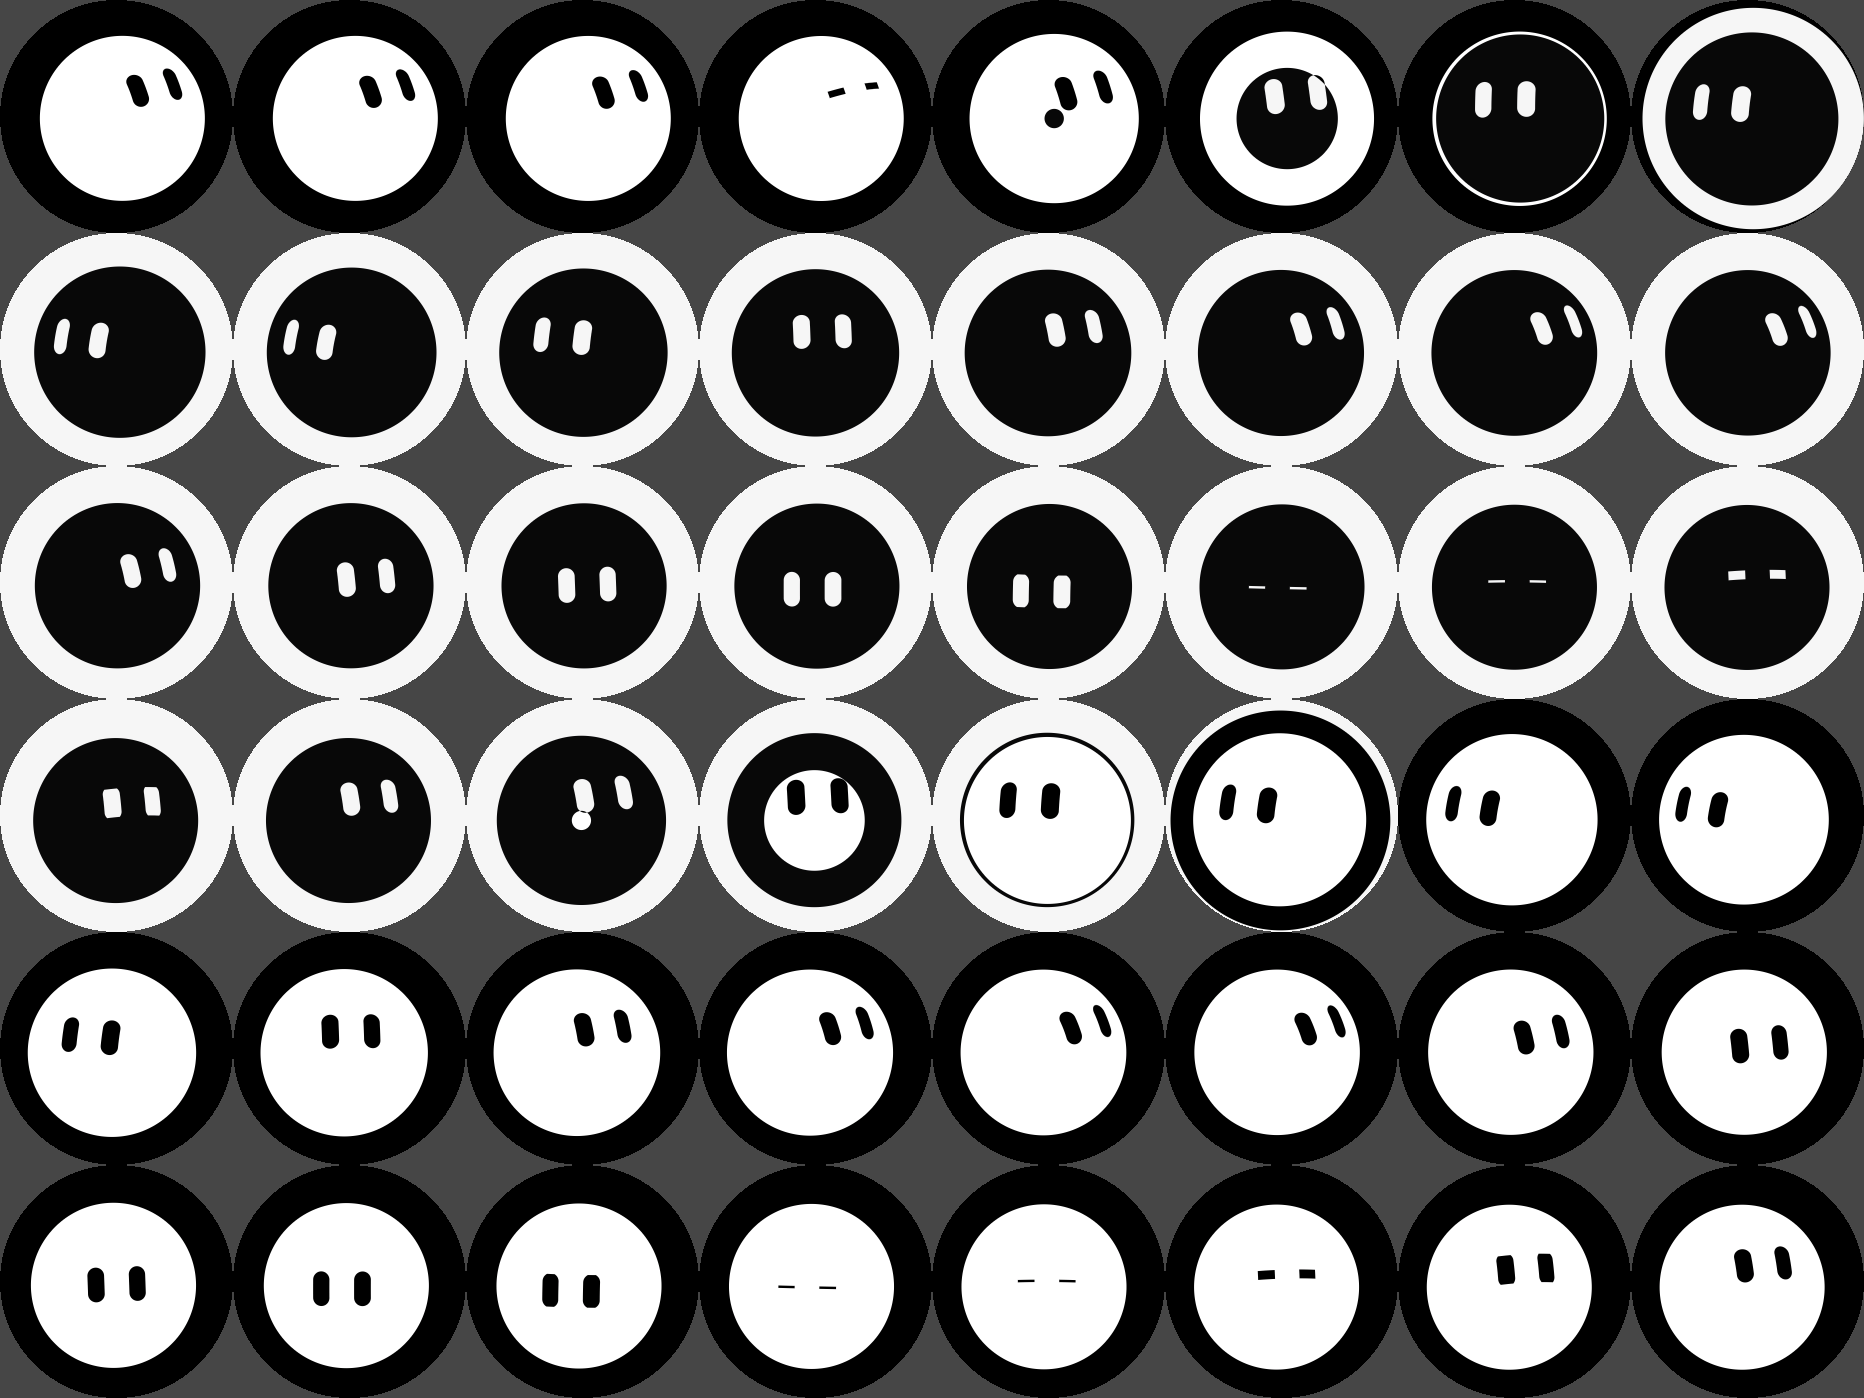
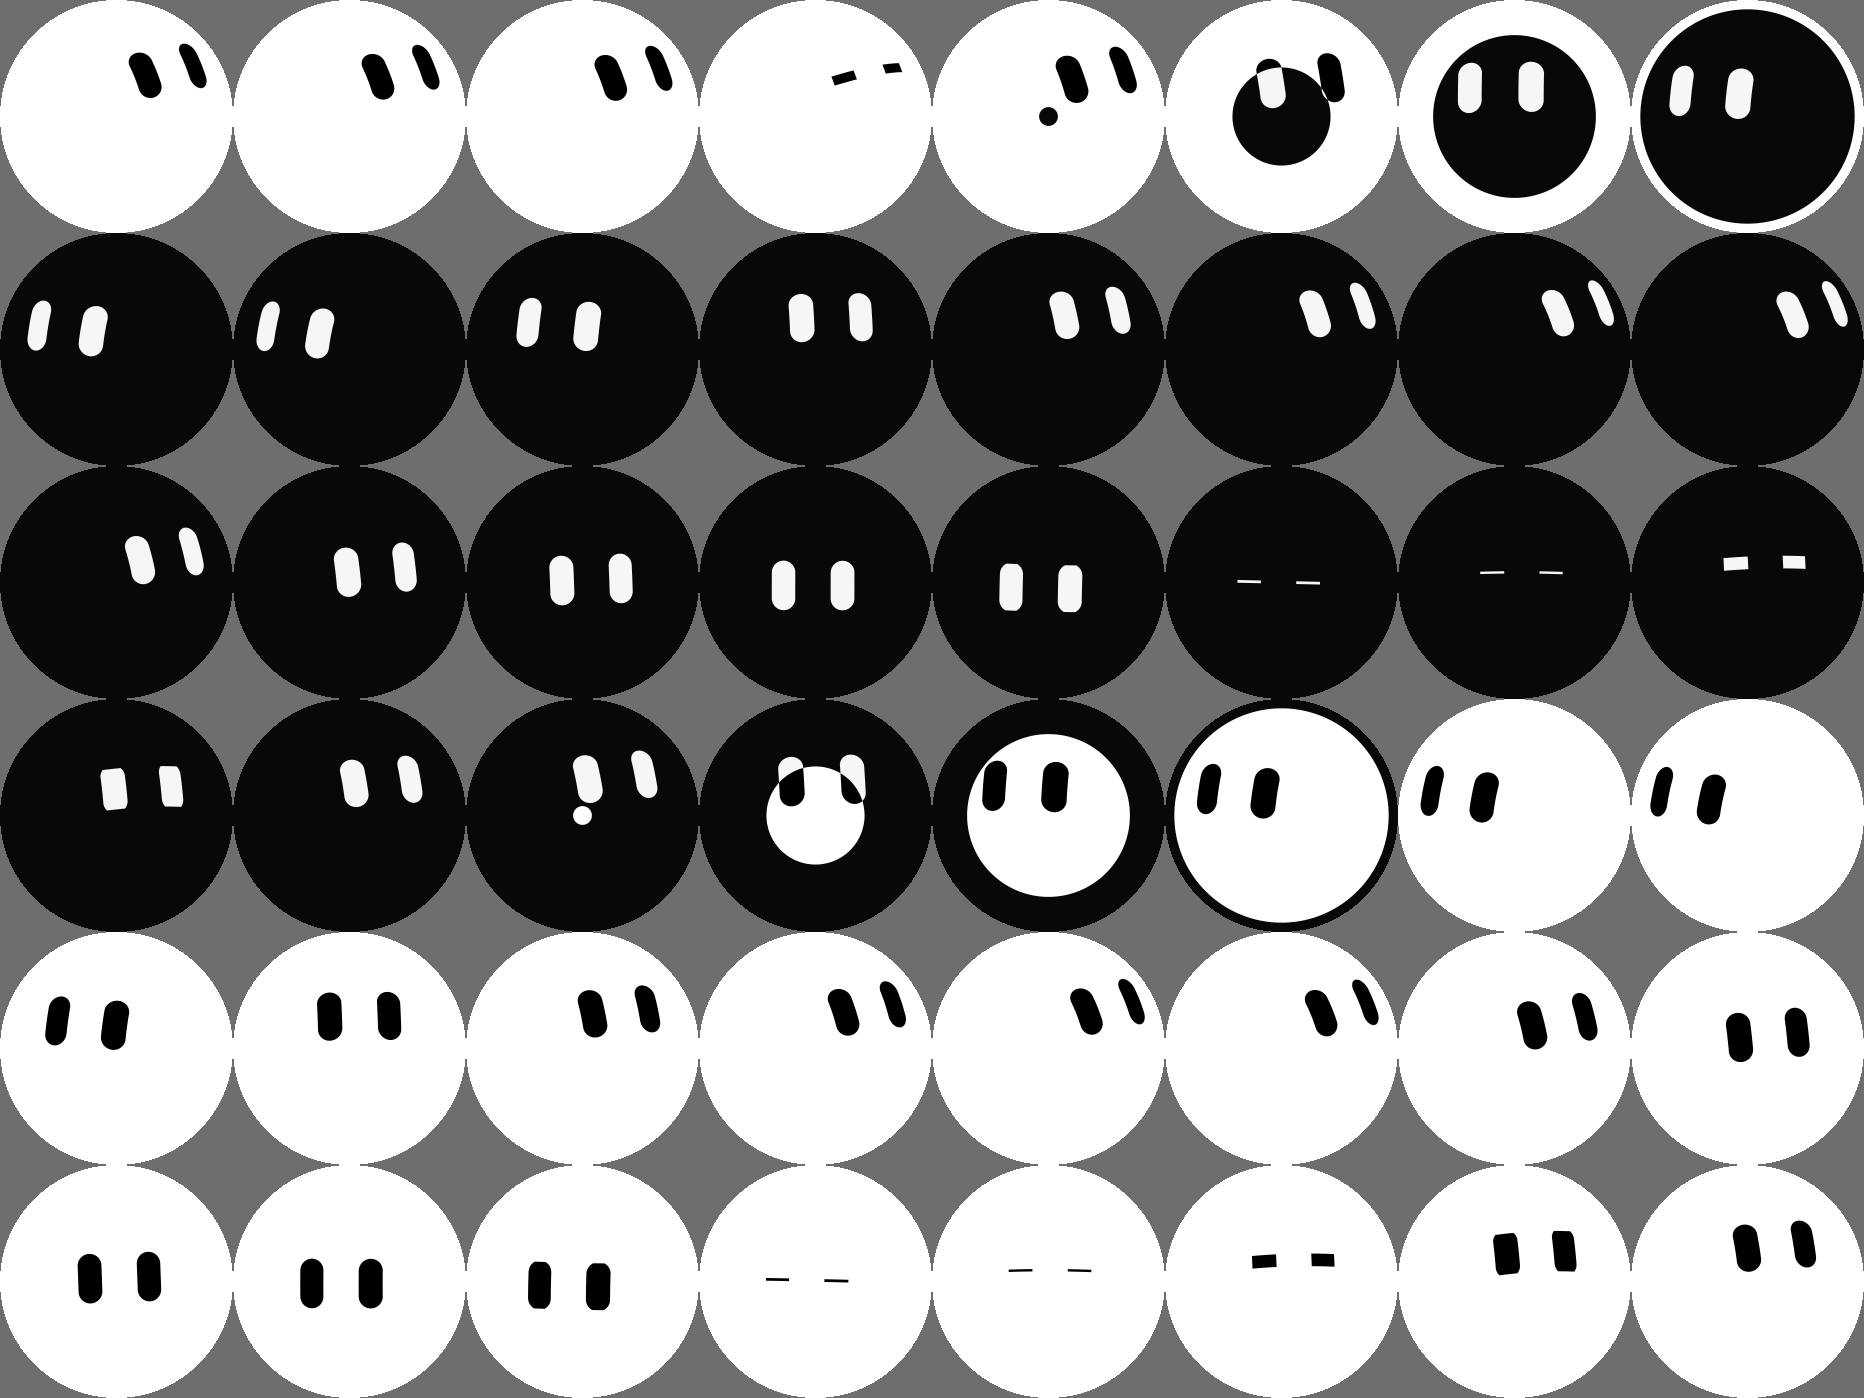
Make the round screen the face: draw only the eyes
The 3D ball now matches the display size, so the whole screen is the
character's face and only the pill eyes are drawn on it.

- Idle: white face, black eyes; tap inverts to black face, white eyes
- Floating motion is now small extra ball rotation instead of moving the ball
- Between taps only the area around the eyes is redrawn
- Settings renamed: IDLE_FACE/IDLE_EYES, TAP_FACE/TAP_EYES, FACE_RADIUS, GAZE_DRIFT

diff --git a/eyes_anim.h b/eyes_anim.h
@@ -9,13 +9,14 @@ namespace eyes {
 
 static const float DEG = 3.14159265f / 180.f;
 
+// The whole round screen is the ball's face; only the eyes are drawn on it.
 struct AnimConfig {
-  uint32_t idleBg, idleBall;        // colors before tapping
-  uint32_t tapBg, tapBall;          // colors after tapping
-  float ballRadius;                 // px
+  uint32_t idleFace, idleEyes;      // colors before tapping
+  uint32_t tapFace, tapEyes;        // colors after tapping
+  float faceRadius;                 // px; slightly larger than the screen radius
   float homeYaw, homePitch, homeRoll;   // degrees: resting gaze (from the reference art)
-  float wander;                     // degrees of subtle gaze wander around home
-  float drift;                      // px of gentle floating
+  float wander;                     // degrees of gaze wander around home (new target every few s)
+  float drift;                      // degrees of slow, continuous floating on top of that
   uint32_t wipeMs;                  // how long the color inversion takes
   uint32_t autoReturnMs;            // 0 = tap toggles, else revert after this long
   EyeStyle eye;
@@ -39,8 +40,7 @@ class Animator {
   void begin(const AnimConfig &cfg, uint32_t seed, uint32_t now) {
     c = cfg;
     rng = seed ? seed : 0x9E3779B9u;
-    float half = c.screenSize * 0.5f;
-    bx.x = half; by.x = half; br.x = c.ballRadius;
+    br.x = c.faceRadius;
     yaw.x = c.homeYaw * DEG; pitch.x = c.homePitch * DEG; roll.x = c.homeRoll * DEG;
     tYaw = yaw.x; tPitch = pitch.x; tRoll = roll.x;
     inverted = false;
@@ -91,15 +91,12 @@ class Animator {
     pitch.step(tPitch, omega, dt);
     roll.step(tRoll, omega * 0.8f, dt);
 
-    // ---- ball position: gentle float + lean toward where it's looking ----
-    float half = c.screenSize * 0.5f;
-    float fx = c.drift * (sinf(t * 0.63f + 0.7f) * 0.7f + sinf(t * 1.17f) * 0.3f);
-    float fy = c.drift * (sinf(t * 0.51f) * 0.6f + sinf(t * 0.93f + 2.1f) * 0.4f);
-    float leanX = (yaw.x - c.homeYaw * DEG) * 22.f;
-    float leanY = -(pitch.x - c.homePitch * DEG) * 22.f;
-    bx.step(half + fx + leanX, 6.f, dt);
-    by.step(half + fy + leanY, 6.f, dt);
-    br.step(c.ballRadius, 10.f, dt);
+    // ---- slow continuous float, so the eyes never sit perfectly still ----
+    float fx = c.drift * DEG * (sinf(t * 0.63f + 0.7f) * 0.7f + sinf(t * 1.17f) * 0.3f);
+    float fy = c.drift * DEG * (sinf(t * 0.51f) * 0.6f + sinf(t * 0.93f + 2.1f) * 0.4f);
+    // face radius only ever bulges outward (tap "boing"), so the rim never shows
+    br.step(c.faceRadius, 10.f, dt);
+    if (br.x < c.faceRadius) { br.x = c.faceRadius; if (br.v < 0) br.v = 0; }
 
     // ---- blinking (both eyes together) ----
     if (blinkStart == 0 && (int32_t)(now - nextBlink) >= 0) startBlink(now, true);
@@ -130,8 +127,9 @@ class Animator {
     }
 
     // ---- fill the scene ----
-    s.ballX = bx.x; s.ballY = by.x; s.ballR = br.x;
-    s.yaw = yaw.x; s.pitch = pitch.x; s.roll = roll.x;
+    float half = c.screenSize * 0.5f;
+    s.ballX = half; s.ballY = half; s.ballR = br.x;
+    s.yaw = yaw.x + fx; s.pitch = pitch.x + fy; s.roll = roll.x;
     s.blink = open;
     bool baseInv = inverted;
     setPalette(baseInv, s.bgA, s.fgA);
@@ -148,7 +146,7 @@ class Animator {
  private:
   AnimConfig c;
   Scene s;
-  Spring bx, by, br, yaw, pitch, roll;
+  Spring br, yaw, pitch, roll;
   float tYaw, tPitch, tRoll;
   bool inverted, wiping, wipeToInverted, justFinishedWipe;
   uint32_t wipeStart, tapTime = 0;
@@ -165,9 +163,10 @@ class Animator {
   float frand(float lo, float hi) { return lo + (hi - lo) * (next() % 10001) / 10000.f; }
   static float ease(float x) { return x * x * (3.f - 2.f * x); }
 
+  // renderer terms: fg = the ball (the face), bg = what shows through the eye holes
   void setPalette(bool inv, Color &bg, Color &fg) const {
-    bg = hexColor(inv ? c.tapBg : c.idleBg);
-    fg = hexColor(inv ? c.tapBall : c.idleBall);
+    bg = hexColor(inv ? c.tapEyes : c.idleEyes);
+    fg = hexColor(inv ? c.tapFace : c.idleFace);
   }
 
   void goHome() { tYaw = c.homeYaw * DEG; tPitch = c.homePitch * DEG; tRoll = c.homeRoll * DEG; }
@@ -198,8 +197,8 @@ class Animator {
     wipeToInverted = !inverted;
     wiping = true;
     wipeStart = now;
-    // wipe grows from the ball's center until it covers the farthest screen corner
-    wipeX = bx.x; wipeY = by.x;
+    // wipe grows from the screen center until it covers the farthest corner
+    wipeX = wipeY = c.screenSize * 0.5f;
     float W = (float)c.screenSize, mx = 0;
     const float cx[4] = { 0, W, 0, W }, cy[4] = { 0, 0, W, W };
     for (int i = 0; i < 4; i++) {
@@ -209,7 +208,7 @@ class Animator {
     wipeMaxR = mx + 2.f;
     // look around, with a little "boing"
     lookStep = 0; lookStepStart = now;
-    br.v += 260.f;
+    br.v += 300.f;
     blinkStart = 0; blinksLeft = 0;
     nextBlink = now + 4000;   // the look-around ends with its own blink
   }

diff --git a/eyes_render.h b/eyes_render.h
@@ -6,6 +6,7 @@
 // as they turn toward the edge of the ball, exactly like the reference art.
 //
 // The eyes are "holes" in the ball: they always show the background color.
+// In RoboEyes the ball is as big as the round screen, so the screen *is* the face.
 //
 // Pure C++ (no Arduino dependencies) so it can also run on a PC for previews.
 #pragma once
@@ -15,6 +16,7 @@
 namespace eyes {
 
 struct Color { float r, g, b; };
+struct Rect { int x0, y0, x1, y1; };   // inclusive pixel rectangle
 
 static inline Color hexColor(uint32_t c) {
   return { float((c >> 16) & 0xFF), float((c >> 8) & 0xFF), float(c & 0xFF) };
@@ -109,6 +111,18 @@ static inline void prepare(const Scene &s, Prepared &p) {
   p.fgB565 = pack565(s.fgB.r, s.fgB.g, s.fgB.b);
 }
 
+// Logical-space bounding box of both eyes (empty rect if they face away).
+static inline Rect eyeBounds(const Prepared &p) {
+  if (!p.eyesVisible) return { 0, 0, -1, -1 };
+  float x0 = 1e9f, y0 = 1e9f, x1 = -1e9f, y1 = -1e9f;
+  for (int i = 0; i < 2; i++) {
+    float r = sqrtf(p.eyeBR2[i]);
+    x0 = fminf(x0, p.eyeBX[i] - r); x1 = fmaxf(x1, p.eyeBX[i] + r);
+    y0 = fminf(y0, p.eyeBY[i] - r); y1 = fmaxf(y1, p.eyeBY[i] + r);
+  }
+  return { (int)floorf(x0), (int)floorf(y0), (int)ceilf(x1), (int)ceilf(y1) };
+}
+
 // Signed distance (in face units) to one pill eye, including eyelids.
 static inline float pillDist(const Scene &s, const Prepared &p, float fu, float fv, float side) {
   float x = fu - side * s.eye.spacing;
@@ -141,8 +155,6 @@ static inline float eyeHoleCoverage(const Scene &s, const Prepared &p, float dx,
   float k = nz / lz; k = k < 0.15f ? 0.15f : (k > 1.f ? 1.f : k);
   return clamp01(0.5f - d * s.ballR * k);
 }
-
-struct Rect { int x0, y0, x1, y1; };   // inclusive pixel rectangle
 
 // Maps a physical pixel to logical (scene) coordinates, for screen rotation.
 struct Xform {

diff --git a/extras/preview/preview.cpp b/extras/preview/preview.cpp
@@ -16,14 +16,15 @@ int main(int argc, char **argv) {
   if (taps.empty()) taps.push_back(2000);
 
   AnimConfig c;
-  c.idleBg = 0x000000; c.idleBall = 0xFFFFFF; c.tapBg = 0xF4F4F4; c.tapBall = 0x0B0B0E;
-  c.ballRadius = 165; c.homeYaw = 28; c.homePitch = 27; c.homeRoll = -10;
-  c.wander = 10; c.drift = 12; c.wipeMs = 550; c.autoReturnMs = 0;
+  // keep in sync with the settings at the top of RoboEyes.ino
+  c.idleFace = 0xFFFFFF; c.idleEyes = 0x000000; c.tapFace = 0x0B0B0E; c.tapEyes = 0xF4F4F4;
+  c.faceRadius = 236; c.homeYaw = 28; c.homePitch = 27; c.homeRoll = -10;
+  c.wander = 10; c.drift = 4; c.wipeMs = 550; c.autoReturnMs = 0;
   c.eye = { 0.25f, 0.0f, 0.10f, 0.11f, 0.0f }; c.screenSize = N;
   Animator a; a.begin(c, 12345, 1);
 
   std::vector<uint16_t> frame(N * N);
-  std::vector<unsigned char> sheet(COLS * T * ROWS * T * 3, 30);
+  std::vector<unsigned char> sheet(COLS * T * ROWS * T * 3, 110);
   Xform xf = makeXform(0, N);
   int tile = 0;
   for (uint32_t t = 1; tile < COLS * ROWS; t += 10) {     // simulate at 100 fps
@@ -43,7 +44,7 @@ int main(int argc, char **argv) {
         float dx = x + 0.5f - T / 2.f, dy = y + 0.5f - T / 2.f;
         bool in = dx * dx + dy * dy <= (T / 2.f) * (T / 2.f);
         unsigned char *o = &sheet[((oy + y) * COLS * T + ox + x) * 3];
-        o[0] = in ? r / (S * S) : 70; o[1] = in ? g / (S * S) : 70; o[2] = in ? b / (S * S) : 70;
+        o[0] = in ? r / (S * S) : 110; o[1] = in ? g / (S * S) : 110; o[2] = in ? b / (S * S) : 110;
       }
       tile++;
     }

diff --git a/README.md b/README.md
@@ -1,12 +1,12 @@
 # RoboEyes
 
-A little ball character with two pill-shaped eyes for the **Waveshare ESP32-S3-Touch-AMOLED-1.43** (466×466 round AMOLED, capacitive touch).
+Two pill-shaped eyes for the **Waveshare ESP32-S3-Touch-AMOLED-1.43** (466×466 round AMOLED, capacitive touch).
 
-- **Idle:** white ball on a black screen. The eyes are cut-outs, both blink together, and the ball floats and glances around.
-- **Tap:** the ball looks around and the screen inverts with a circular wipe: white screen, black ball.
-- **Tap again:** back to black (or set `AUTO_RETURN_MS` to go back automatically).
+The round screen itself is the character's face. It's rendered as a 3D ball the exact size of the display, so only the eyes are drawn, and they squash and lean naturally as the face looks around.
 
-The ball is rendered as a real 3D sphere, so the eyes squash and lean naturally as it looks toward its edge.
+- **Idle:** white face, black eyes. Both eyes blink together and keep gliding around.
+- **Tap:** the eyes look around and the face inverts with a circular wipe: black face, white eyes.
+- **Tap again:** back to white (or set `AUTO_RETURN_MS` to go back automatically).
 
 ![preview](extras/preview/preview.png)
 
@@ -38,14 +38,14 @@ Everything you're likely to change is at the top of `RoboEyes.ino`:
 
 | Setting | What it does |
 |---|---|
-| `IDLE_BACKGROUND`, `IDLE_BALL` | Colors before tapping (`0xRRGGBB`) |
-| `TAP_BACKGROUND`, `TAP_BALL` | Colors after tapping |
-| `BALL_RADIUS` | Ball size in pixels (screen is 466 wide) |
+| `IDLE_FACE`, `IDLE_EYES` | Colors before tapping (`0xRRGGBB`) |
+| `TAP_FACE`, `TAP_EYES` | Colors after tapping |
+| `FACE_RADIUS` | Size of the ball the eyes sit on (236 = fills the screen; bigger = bigger eyes) |
 | `HOME_YAW`, `HOME_PITCH`, `HOME_ROLL` | Resting gaze direction (default: up and to the right, like the reference art) |
-| `GAZE_WANDER`, `BALL_DRIFT` | How much it looks around / floats while idle |
+| `GAZE_WANDER`, `GAZE_DRIFT` | How much the eyes look around / float while idle |
 | `EYE_SPACING`, `EYE_HEIGHT`, `EYE_WIDTH`, `EYE_LENGTH`, `EYE_TILT` | Eye shape and placement |
-| `WIPE_MS` | Speed of the black/white inversion |
-| `AUTO_RETURN_MS` | `0` = tap toggles; otherwise return to black after N ms |
+| `WIPE_MS` | Speed of the white/black inversion |
+| `AUTO_RETURN_MS` | `0` = tap toggles; otherwise return to white after N ms |
 | `SCREEN_ROTATION` | `0`, `90`, `180`, `270` if the image is sideways |
 | `BRIGHTNESS` | `0`–`255` |
 
